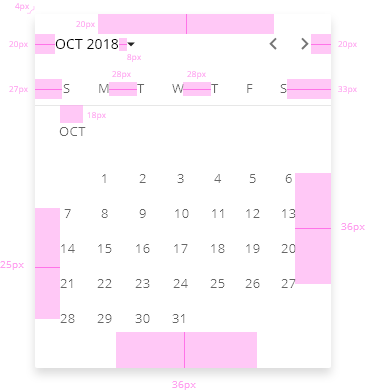
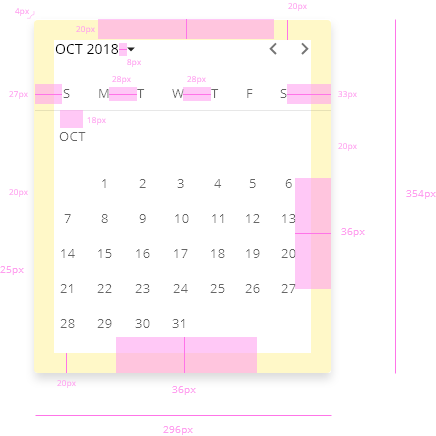
Changes in button and date

diff --git a/Button/README.md b/Button/README.md
@@ -65,10 +65,10 @@ To keep the consistency through the design system, the font used is *Open Sans*,
 
 It is not limited the content of a button like so the user can place icons inside of a button to reinforce the action accordingly to the meaning.
 
-Both resources, [Material Icons](https://material.io/tools/icons) and [Fontawesome Icons](https://fontawesome.com/icons) can be used in the DXC Design System, so it is apt to the user to choose between one of the two options.
-By default, fontawesome icons have a bold weight because it is the library freemium option. 
+<!-- Both resources, [Material Icons](https://material.io/tools/icons) and [Fontawesome Icons](https://fontawesome.com/icons) --> 
+Any icon can be used in the DXC Design System, so it is apt to the user to choose between one of the options multiple options that are offered through internet but it is recommended to use the same library of icons along the application to keeping concistency.
 
-Also, another point to consider is that the icon can go before or after the text with a separation of 10 pixels respecting the main button's text. To keeping the consistency, the icon sizes were defined based on the content and the implementation of the icons, resulting in the following 
+Also, another point to consider is that the icon can go before or after the text with a separation of 10 pixels respecting the main button's text. To keeping the consistency, the icon sizes were defined based on the content and the implementation of the icons, resulting in the following:
 
 <span style="color: red">*</span>Do not use icons mainly for visual interest, the glyph must add information and clarification to the action that would be performed in the context of the button.
 <br>

diff --git a/Date/README.md b/Date/README.md
@@ -94,3 +94,5 @@ The majority of the specifications are the same as in Angular Material datepicke
 | Font size          | `13px` |
 
 <div> <img src="images/date_picker_specs.png"/> </div>
+<div> <img src="images/date_picker_specs_2.png"/> </div>
+<div> <img src="images/date_picker_specs_3.png"/> </div>
